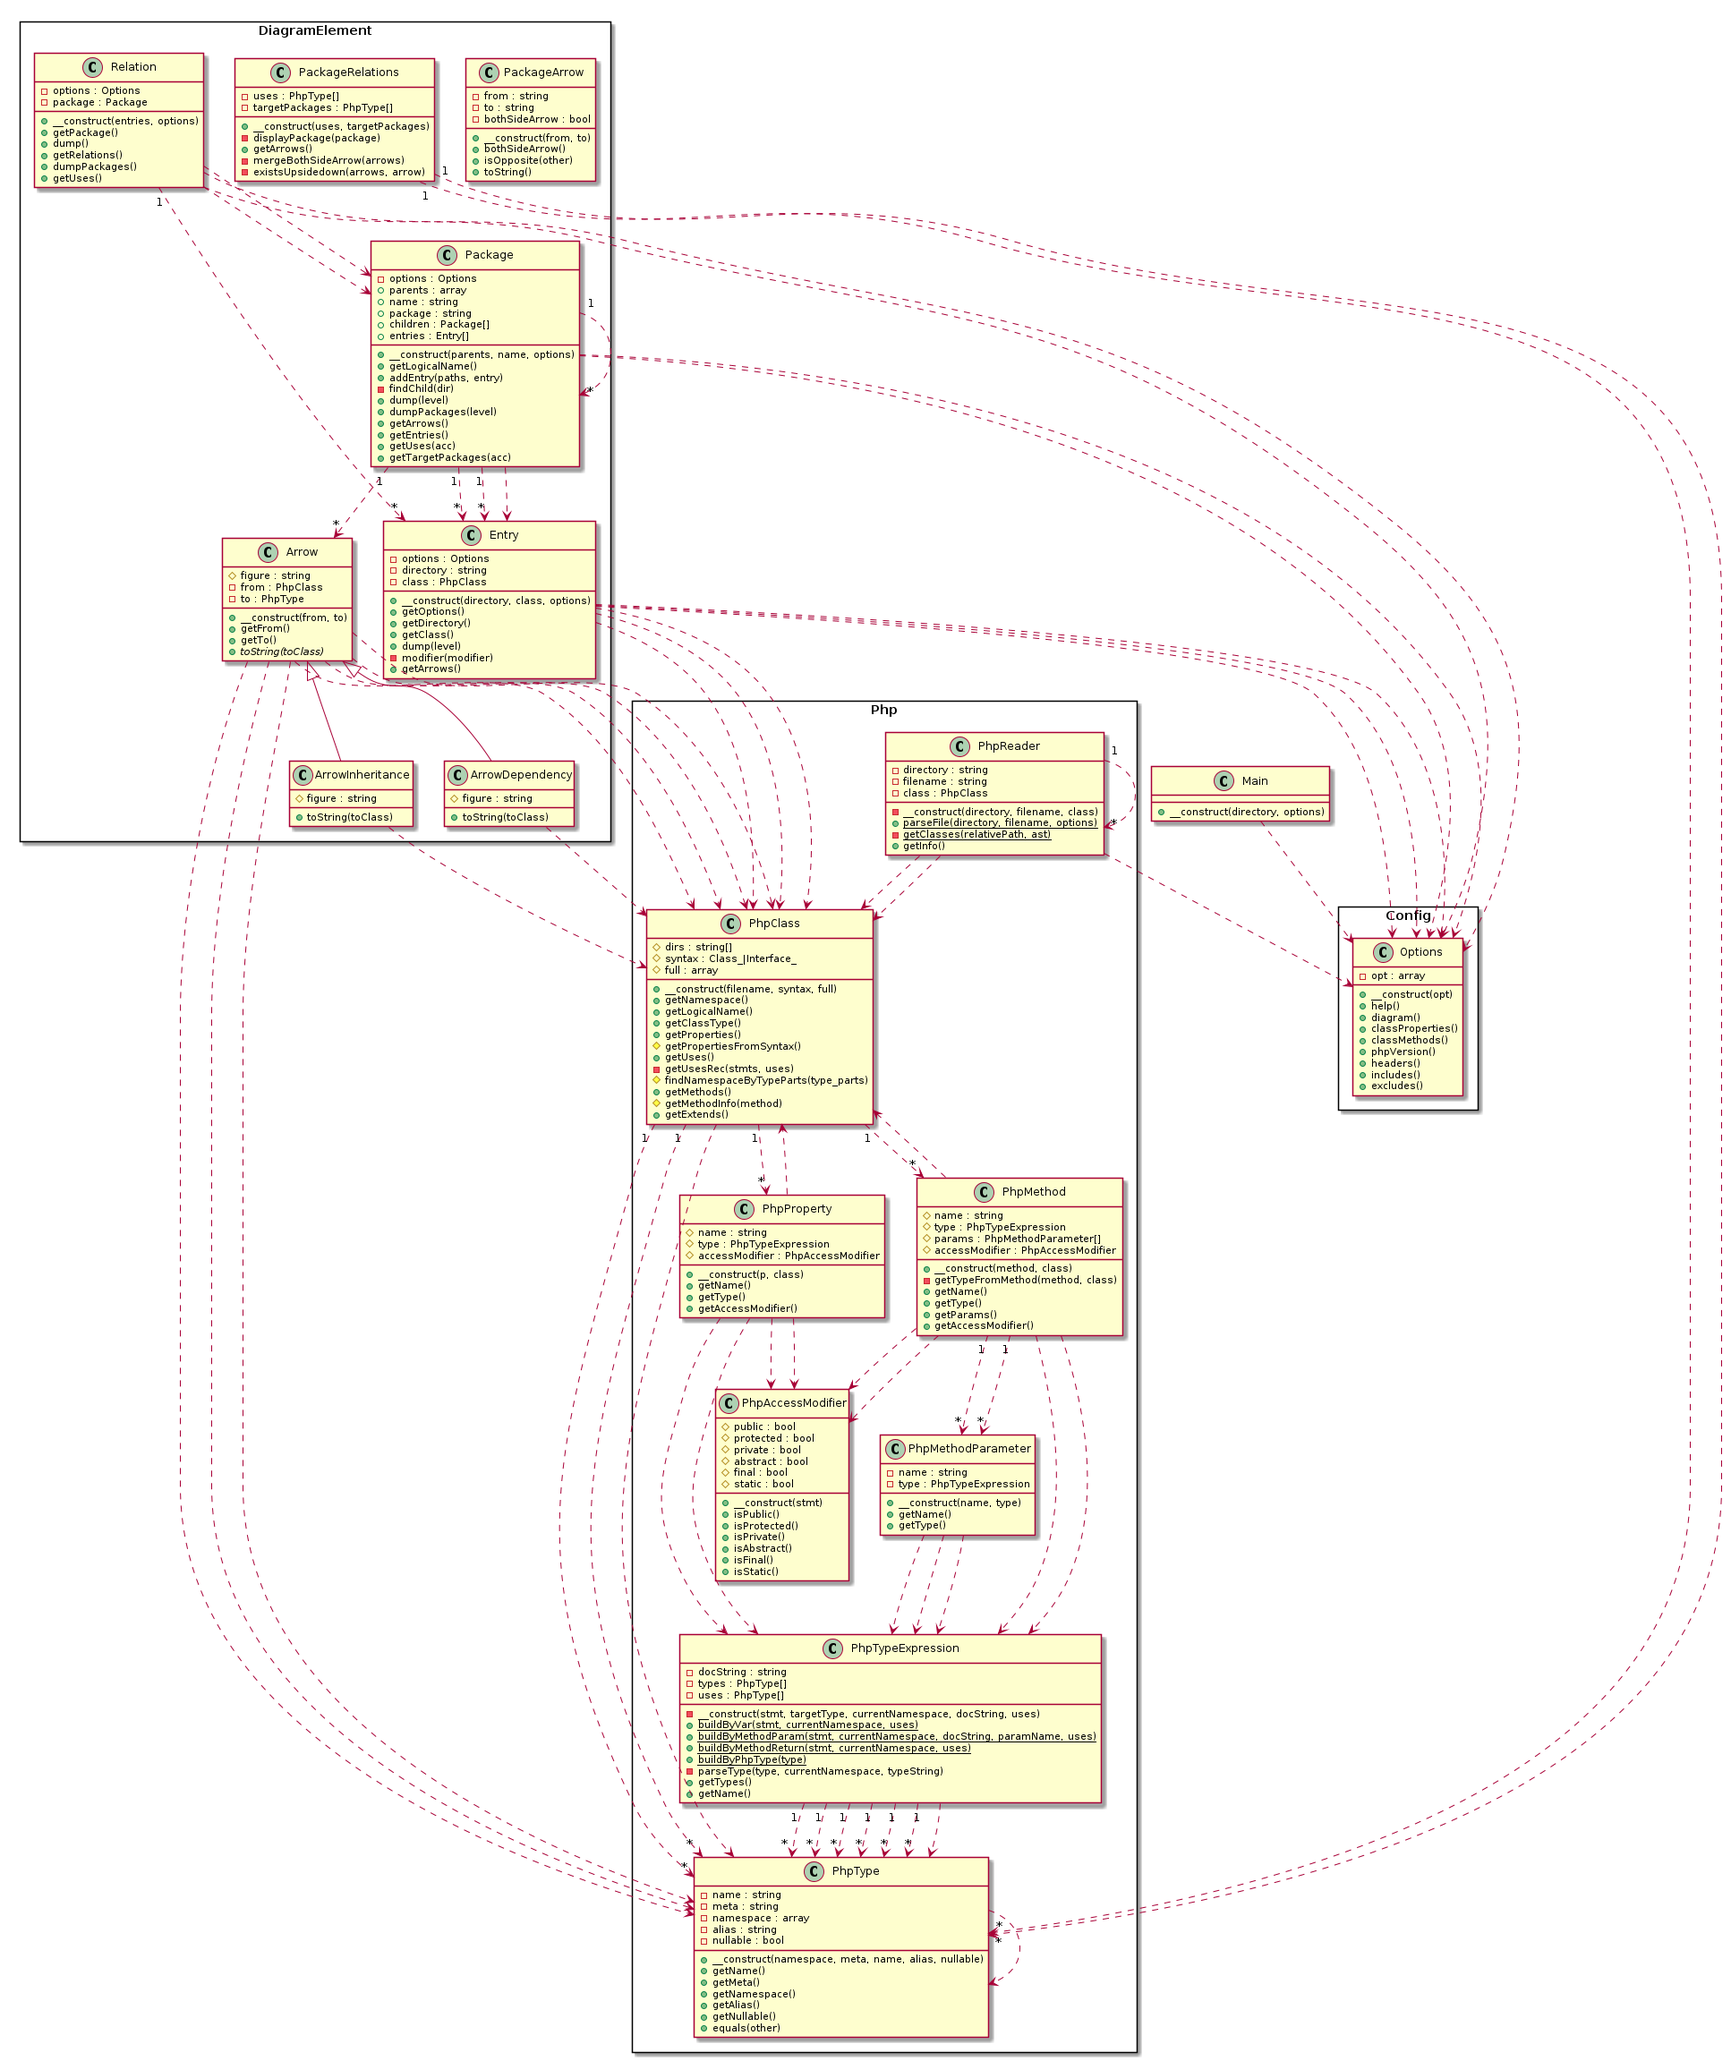
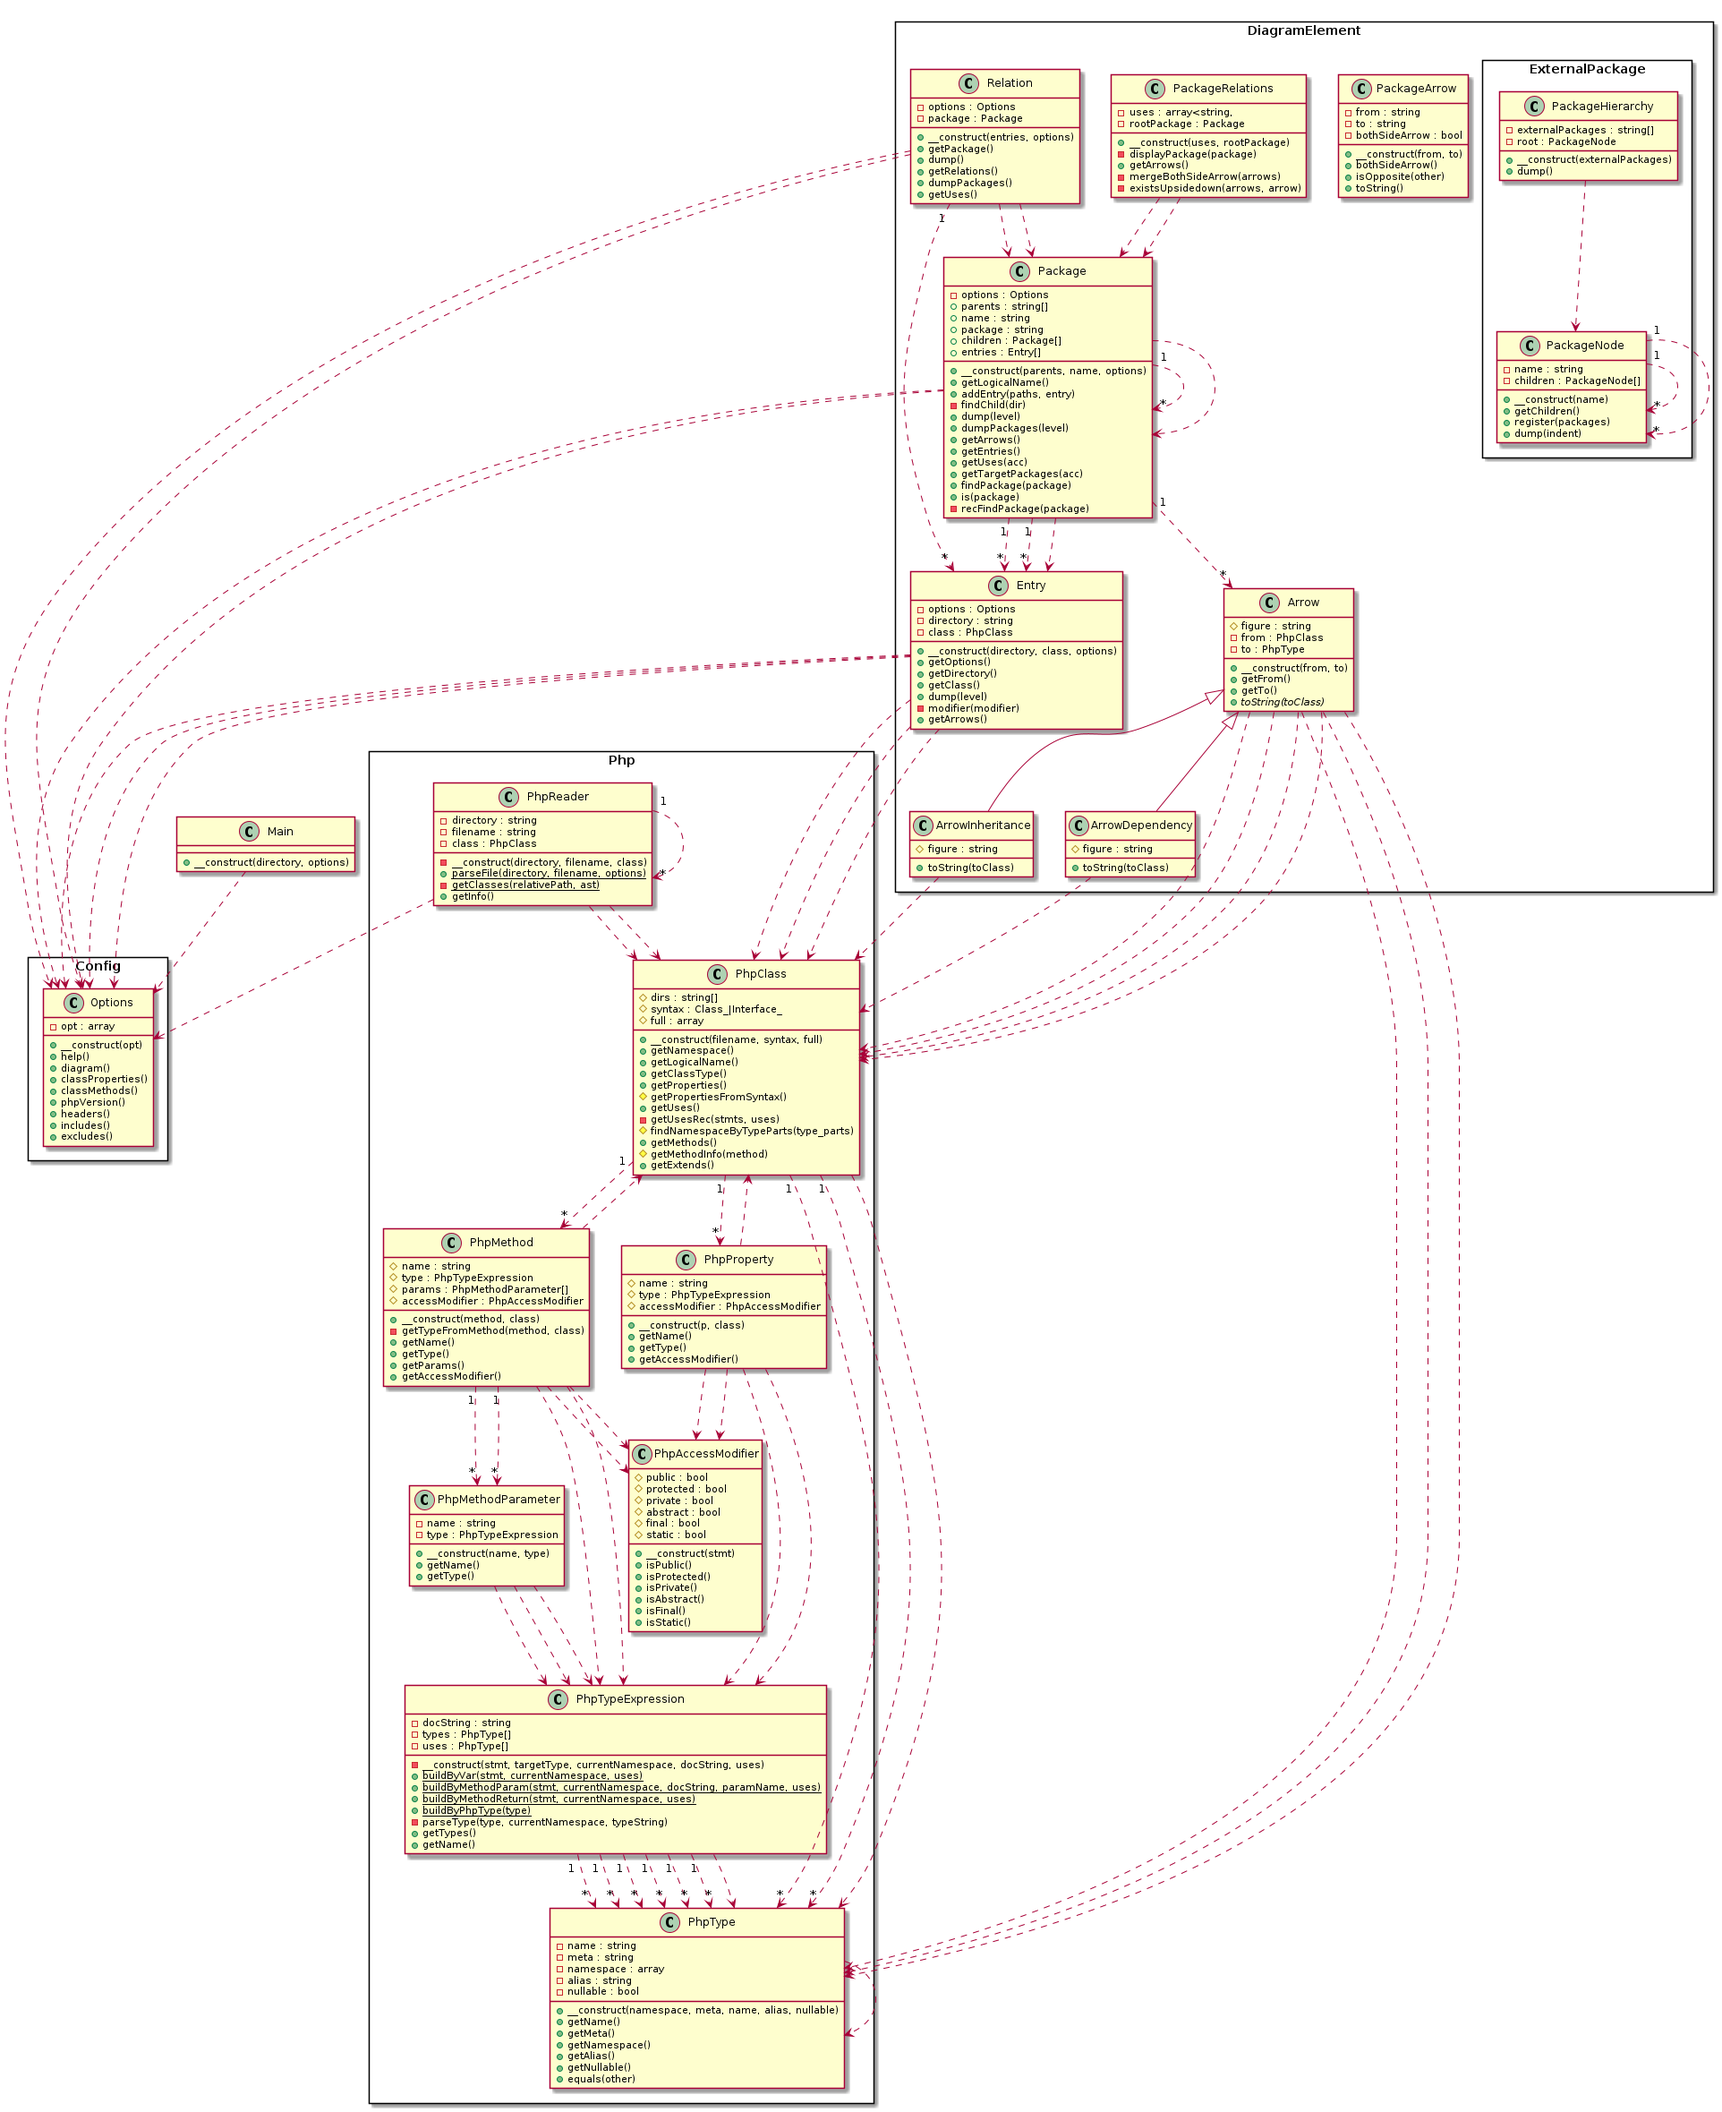
Modified to display external packages at the lower level in the package relation diagram.

Changed region(s): [[0.0, 0.0, 0.9979, 1.0], [0.6861, 0.2775, 0.8108, 0.3391]]

diff --git a/src/DiagramElement/Package.php b/src/DiagramElement/Package.php
@@ -6,6 +6,7 @@ use Smeghead\PhpClassDiagram\Config\Options;
 class Package {
     private Options $options;
 
+    /** @var string[]  */
     public array $parents;
     public string $name;
     public string $package = '';
@@ -28,7 +29,7 @@ class Package {
     public function addEntry(array $paths, Entry $entry): string {
         if (count($paths) === 0) {
             if (empty($this->package)) {
-                $this->package = implode('.', $entry->getClass()->getClassType()->getNamespace());
+                $this->package = implode('.', $entry->getClass()->getNamespace());
             }
             $this->entries[] = $entry;
             return $this->package;
@@ -85,26 +86,22 @@ class Package {
     public function dumpPackages($level = 1): array {
         $indent = str_repeat('  ', $level);
         $lines = [];
-        // if ($level == 1) {
-        //     $lines[] = sprintf(
-        //         '%spackage %s as %s {',
-        //         $indent,
-        //         $this->name === 'ROOT' ? (empty($this->package) ? 'ROOT': $this->package) : $this->name,
-        //         $this->getLogicalName()
-        //     );
-        // } else {
+        $target = empty($this->package) ? $this->getLogicalName() : $this->package;
+        $targetElements = explode('.', $target);
+        if ($level > 1) {
             $lines[] = sprintf(
                 '%spackage %s {',
                 $indent,
-                $this->package
+                end($targetElements)
             );
-        // }
-        // $lines[] = sprintf(
-        //     '%spackage %s as %s {',
-        //     $indent,
-        //     $this->name === 'ROOT' ? (empty($this->package) ? 'ROOT': $this->package) : $this->name,
-        //     $this->getLogicalName()
-        // );
+        } else {
+            $lines[] = sprintf(
+                '%spackage %s as %s {',
+                $indent,
+                $target,
+                end($targetElements)
+            );
+        }
         foreach ($this->children as $n) {
             $lines = array_merge($lines, $n->dumpPackages($level + 1));
         }
@@ -145,7 +142,8 @@ class Package {
         foreach ($this->entries as $e) {
             $uses = array_merge($uses, $e->getClass()->getUses());
         }
-        $acc[$this->package] = $uses;
+        $package = empty($this->package) ? sprintf('%s.%s', implode('.', $this->parents), $this->name) : $this->package;
+        $acc[$package] = $uses;
         foreach ($this->children as $n) {
             $acc = array_merge($acc, $n->getUses($acc));
         }
@@ -161,5 +159,32 @@ class Package {
             $acc = $n->getTargetPackages($acc);
         }
         return $acc;
+    }
+
+    public function findPackage(string $package): ?Package {
+        return $this->recFindPackage($package);
+    }
+
+    public function is(string $package): bool {
+        $segments = $this->parents;
+        $segments[] = $this->name;
+        return implode('.', $segments) === $package;
+    }
+
+    /**
+     * @param string $package パッケージの表記(例: hoge.fuga)
+     * @return ?Package
+     */
+    private function recFindPackage(string $package): ?Package {
+        if ($this->is($package)) {
+            return $this;
+        }
+        foreach ($this->children as $c) {
+            $p = $c->recFindPackage($package);
+            if ( ! empty($p)) {
+                return $p;
+            }
+        }
+        return null;
     }
 }

diff --git a/src/DiagramElement/PackageRelations.php b/src/DiagramElement/PackageRelations.php
@@ -7,27 +7,25 @@ use Smeghead\PhpClassDiagram\Php\PhpType;
 class PackageRelations {
     /** @var array<string, \Smeghead\PhpClassDiagram\Php\PhpType[]> */
     private array $uses;
-    /** @var \Smeghead\PhpClassDiagram\Php\PhpType[] */
-    private array $targetPackages;
+    private Package $rootPackage;
 
     /**
      * @param array<string, \Smeghead\PhpClassDiagram\Php\PhpType[]> $uses
+     * @param Package $rootPackage
      */
-    public function __construct(array $uses, array $targetPackages) {
+    public function __construct(array $uses, Package $rootPackage) {
         $this->uses = $uses;
-        $this->targetPackages = $targetPackages;
+        $this->rootPackage = $rootPackage;
     }
 
-    private function displayPackage($package) {
-        if (empty($package)) {
-            return $this->targetPackages[$package];
+    private function displayPackage(string $package): string {
+        $p = $this->rootPackage->findPackage($package);
+        if ( ! empty($p)) {
+            if (empty($p->package)) {
+                return $p->getLogicalName();
+            }
         }
-        return $package;
-        // if (in_array($package, array_keys($this->targetPackages))) {
-        //     return $this->targetPackages[$package]; // 解析対象のpackageはディレクトリ名で表示
-        // } else {
-        //     return $package; //外部のpackageはpackage表示
-        // }
+        return $package; //外部のpackageはpackage表示
     }
     
     public function getArrows(): array {
@@ -35,23 +33,26 @@ class PackageRelations {
         $all = [];
         $packageRelations = [];
         foreach ($this->uses as $namespace => $us) {
-            $packages = array_unique(array_map(function(PhpType $x){
+            $packageNames = array_unique(array_map(function(PhpType $x){
                 return implode('.', $x->getNamespace());
             }, $us));
             // 対象となっているpackage以外のpackageは、即席で定義する必要がある。
-            $all = array_unique(array_merge($all, $packages));
-            $packageRelations[$namespace] = array_map(function($x) {
-                return $this->displayPackage($x, $this->targetPackages);
-            }, $packages);
+            $all = array_unique(array_merge($all, $packageNames));
+            $packageRelations[$namespace] = array_map(function(string $x) {
+                return $this->displayPackage($x);
+            }, $packageNames);
         }
-        $externals = array_diff($all, array_keys($this->targetPackages));
+        $externals = array_diff($all, array_keys($this->rootPackage->getTargetPackages()));
         if (count($externals) > 0) {
             $externalPackage = new PackageHierarchy($externals);
             $lines[] = $externalPackage->dump();
         }
         $arrows = [];
         foreach ($packageRelations as $package => $dependencies) {
-            $package = $this->displayPackage($package, $this->targetPackages);
+            $package = $this->displayPackage($package);
+            if (empty($package)) {
+                continue;
+            }
             foreach ($dependencies as $d) {
                 if (empty($d)) {
                     continue;

diff --git a/test/dummy/PhpClassDummy.php b/test/dummy/PhpClassDummy.php
@@ -13,6 +13,8 @@ require_once(__DIR__ . '/PhpPropertyDummy.php');
  * Dummy Class for tests.
  */
 class PhpClassDummy extends PhpClass {
+    private stdClass $data;
+    
     public function __construct(string $directory, string $filename, string $data) {
         $dirs = preg_split('/[\\\\\/]/', $filename);
         array_pop($dirs);
@@ -51,6 +53,10 @@ class PhpClassDummy extends PhpClass {
             $props[] = new PhpPropertyDummy($p->name, PhpTypeExpression::buildByPhpType(new PhpType($p->type->namespace, '', $p->type->name)), $p->modifier);
         }
         return $props;
+    }
+
+    public function getNamespace(): array {
+        return $this->data->type->namespace;
     }
 
     /**

diff --git a/test/PackageTest.php b/test/PackageTest.php
@@ -474,7 +474,7 @@ EOS;
     package product {
     }
   }
-  package PhpParse as PhpParse {
+  package PhpParse as PhpParse #DDDDDD {
   }
   product --> PhpParse
 @enduml
@@ -493,13 +493,13 @@ EOS;
         $rel = new Relation($entries, $options);
         $expected =<<<EOS
 @startuml package-related-diagram
-  package hoge.fuga as ROOT {
+  package hoge.fuga as fuga {
     package product {
       package utility {
       }
     }
   }
-  product <-[#red,plain,thickness=4]-> product.utility
+  product <-[#red,plain,thickness=4]-> utility
 @enduml
 EOS;
         $this->assertSame($expected, implode(PHP_EOL, $rel->dumpPackages()), 'output PlantUML script.');

diff --git a/src/DiagramElement/Relation.php b/src/DiagramElement/Relation.php
@@ -52,8 +52,7 @@ class Relation {
         $lines = array_merge($lines, $this->options->headers());
         $lines = array_merge($lines, $this->package->dumpPackages());
         $uses = $this->getUses();
-        $targetPackages = $this->package->getTargetPackages();
-        $packageRelations = new PackageRelations($uses, $targetPackages);
+        $packageRelations = new PackageRelations($uses, $this->package);
         $lines = array_merge($lines, $packageRelations->getArrows());
         $lines[] = '@enduml';
 

diff --git a/test/PhpTypeExpressionTest.php b/test/PhpTypeExpressionTest.php
@@ -177,7 +177,6 @@ final class PhpTypeExpressionTest extends TestCase {
         } catch (Error $error) {
             throw new \Exception("Parse error: {$error->getMessage()} file: {$filename}\n");
         }
-        // var_dump($ast[0]->stmts[1]->stmts[8]);die();
         $doc = $ast[0]->stmts[2]->stmts[10]->getDocComment();
         $docString = $doc->getText();
         $param = $ast[0]->stmts[2]->stmts[10]->getParams()[0];

diff --git a/src/DiagramElement/ExternalPackage/PackageHierarchy.php b/src/DiagramElement/ExternalPackage/PackageHierarchy.php
@@ -66,7 +66,7 @@ class PackageNode {
 
     public function dump(int $indent): string {
         $lines = [];
-        $lines[] = sprintf('%spackage %s as %s {', str_repeat('  ', $indent), $this->name, $this->name);
+        $lines[] = sprintf('%spackage %s as %s #DDDDDD {', str_repeat('  ', $indent), $this->name, $this->name);
         foreach ($this->children as $c) {
             $lines[] = $c->dump($indent + 1);
         }

diff --git a/src/DiagramElement/PackageArrow.php b/src/DiagramElement/PackageArrow.php
@@ -29,6 +29,8 @@ class PackageArrow {
         $format = $this->bothSideArrow
             ? '  %s <-[#red,plain,thickness=4]-> %s'
             : '  %s --> %s';
-        return sprintf($format, $this->from, $this->to);
+        $fromElements = explode('.', $this->from);
+        $toElements = explode('.', $this->to);
+        return sprintf($format, end($fromElements), end($toElements));
     }
 }

diff --git a/test/PackageHierarchyTest.php b/test/PackageHierarchyTest.php
@@ -25,8 +25,8 @@ final class PackageHierarchyTest extends TestCase {
         $sut = new PackageHierarchy($externals);
 
         $expected = <<<EOC
-  package External as External {
-    package One as One {
+  package External as External #DDDDDD {
+    package One as One #DDDDDD {
     }
   }
 EOC;

diff --git a/CHANGELOG.md b/CHANGELOG.md
@@ -1,5 +1,9 @@
 # CHANGELOG
 
+### Features
+
+ * Modified to display external packages at the lower level in the package relation diagram.
+
 ### Bug fix
 
  * Method's Parameter Dependencies added to arrows.
